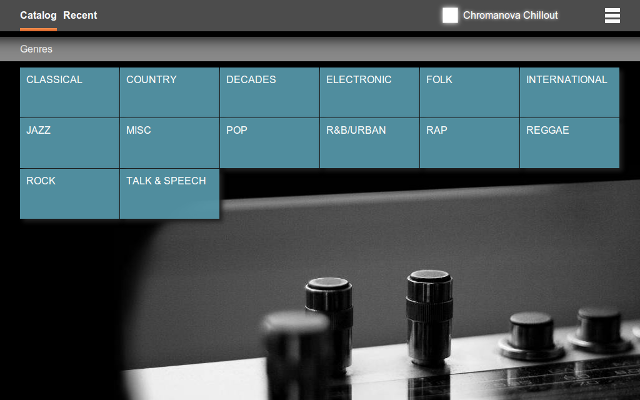
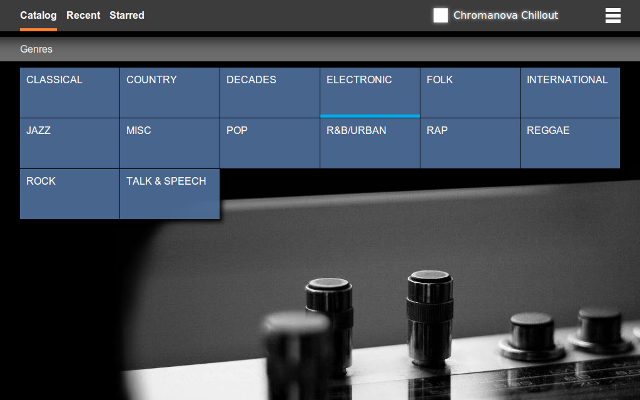
Updated screenshots

diff --git a/docs/screenshot-guide.md b/docs/screenshot-guide.md
@@ -1,8 +1,17 @@
 ### Calculations for screenshots
 
-## Needed:
+## Preparation:
 
-* entire screen shots taken at resolution 1440x900.
+Take screenshot with printscreen button of Chrome at resolution 1440x900
+
+Guidelines:
+* with hover
+* playing station stop button with glow
+* playing station selection visible
+
+* catalog when playing some station 
+* genres -> electronic -> Dance when playing some other station
+* starred stations during playing one of those
 
 ## To create screenshot with resolution 1280x800
 

diff --git a/docs/branding-guide.md b/docs/branding-guide.md
@@ -5,4 +5,5 @@
 * update favicon using [this](http://www.favicon.cc)
 * update promo image(s)
 * update screenshots
+* zip and deploy chrome manifest
 
